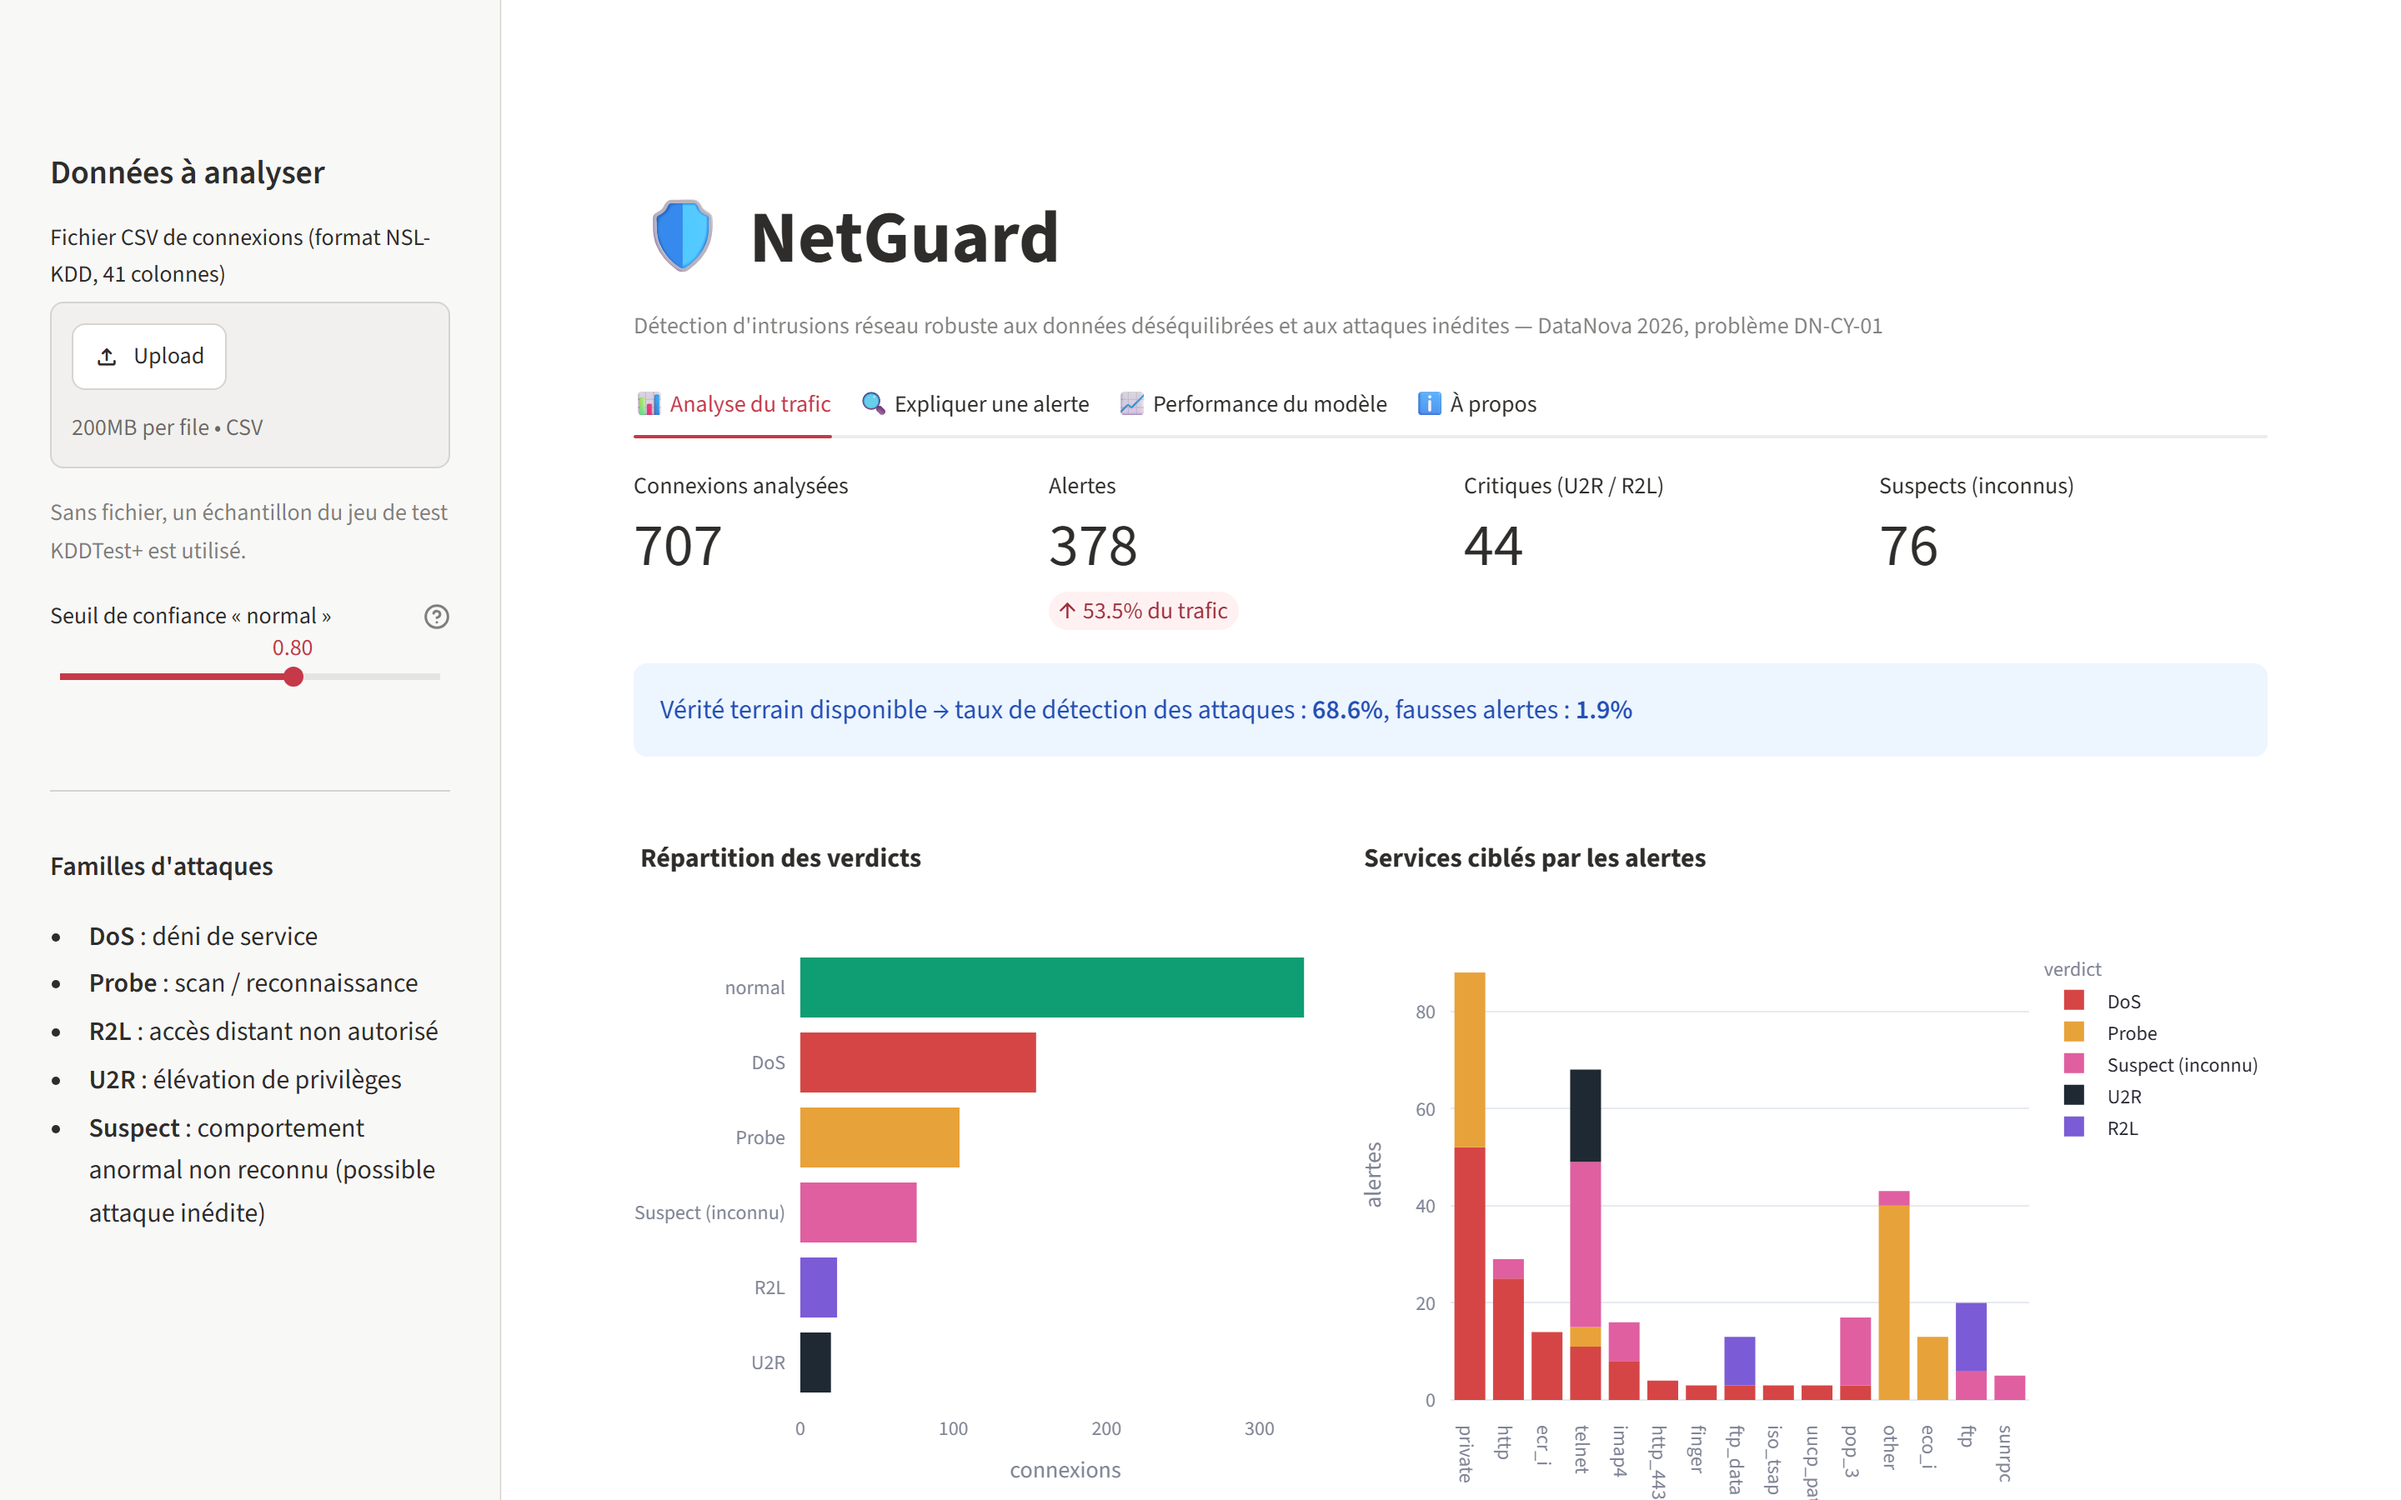
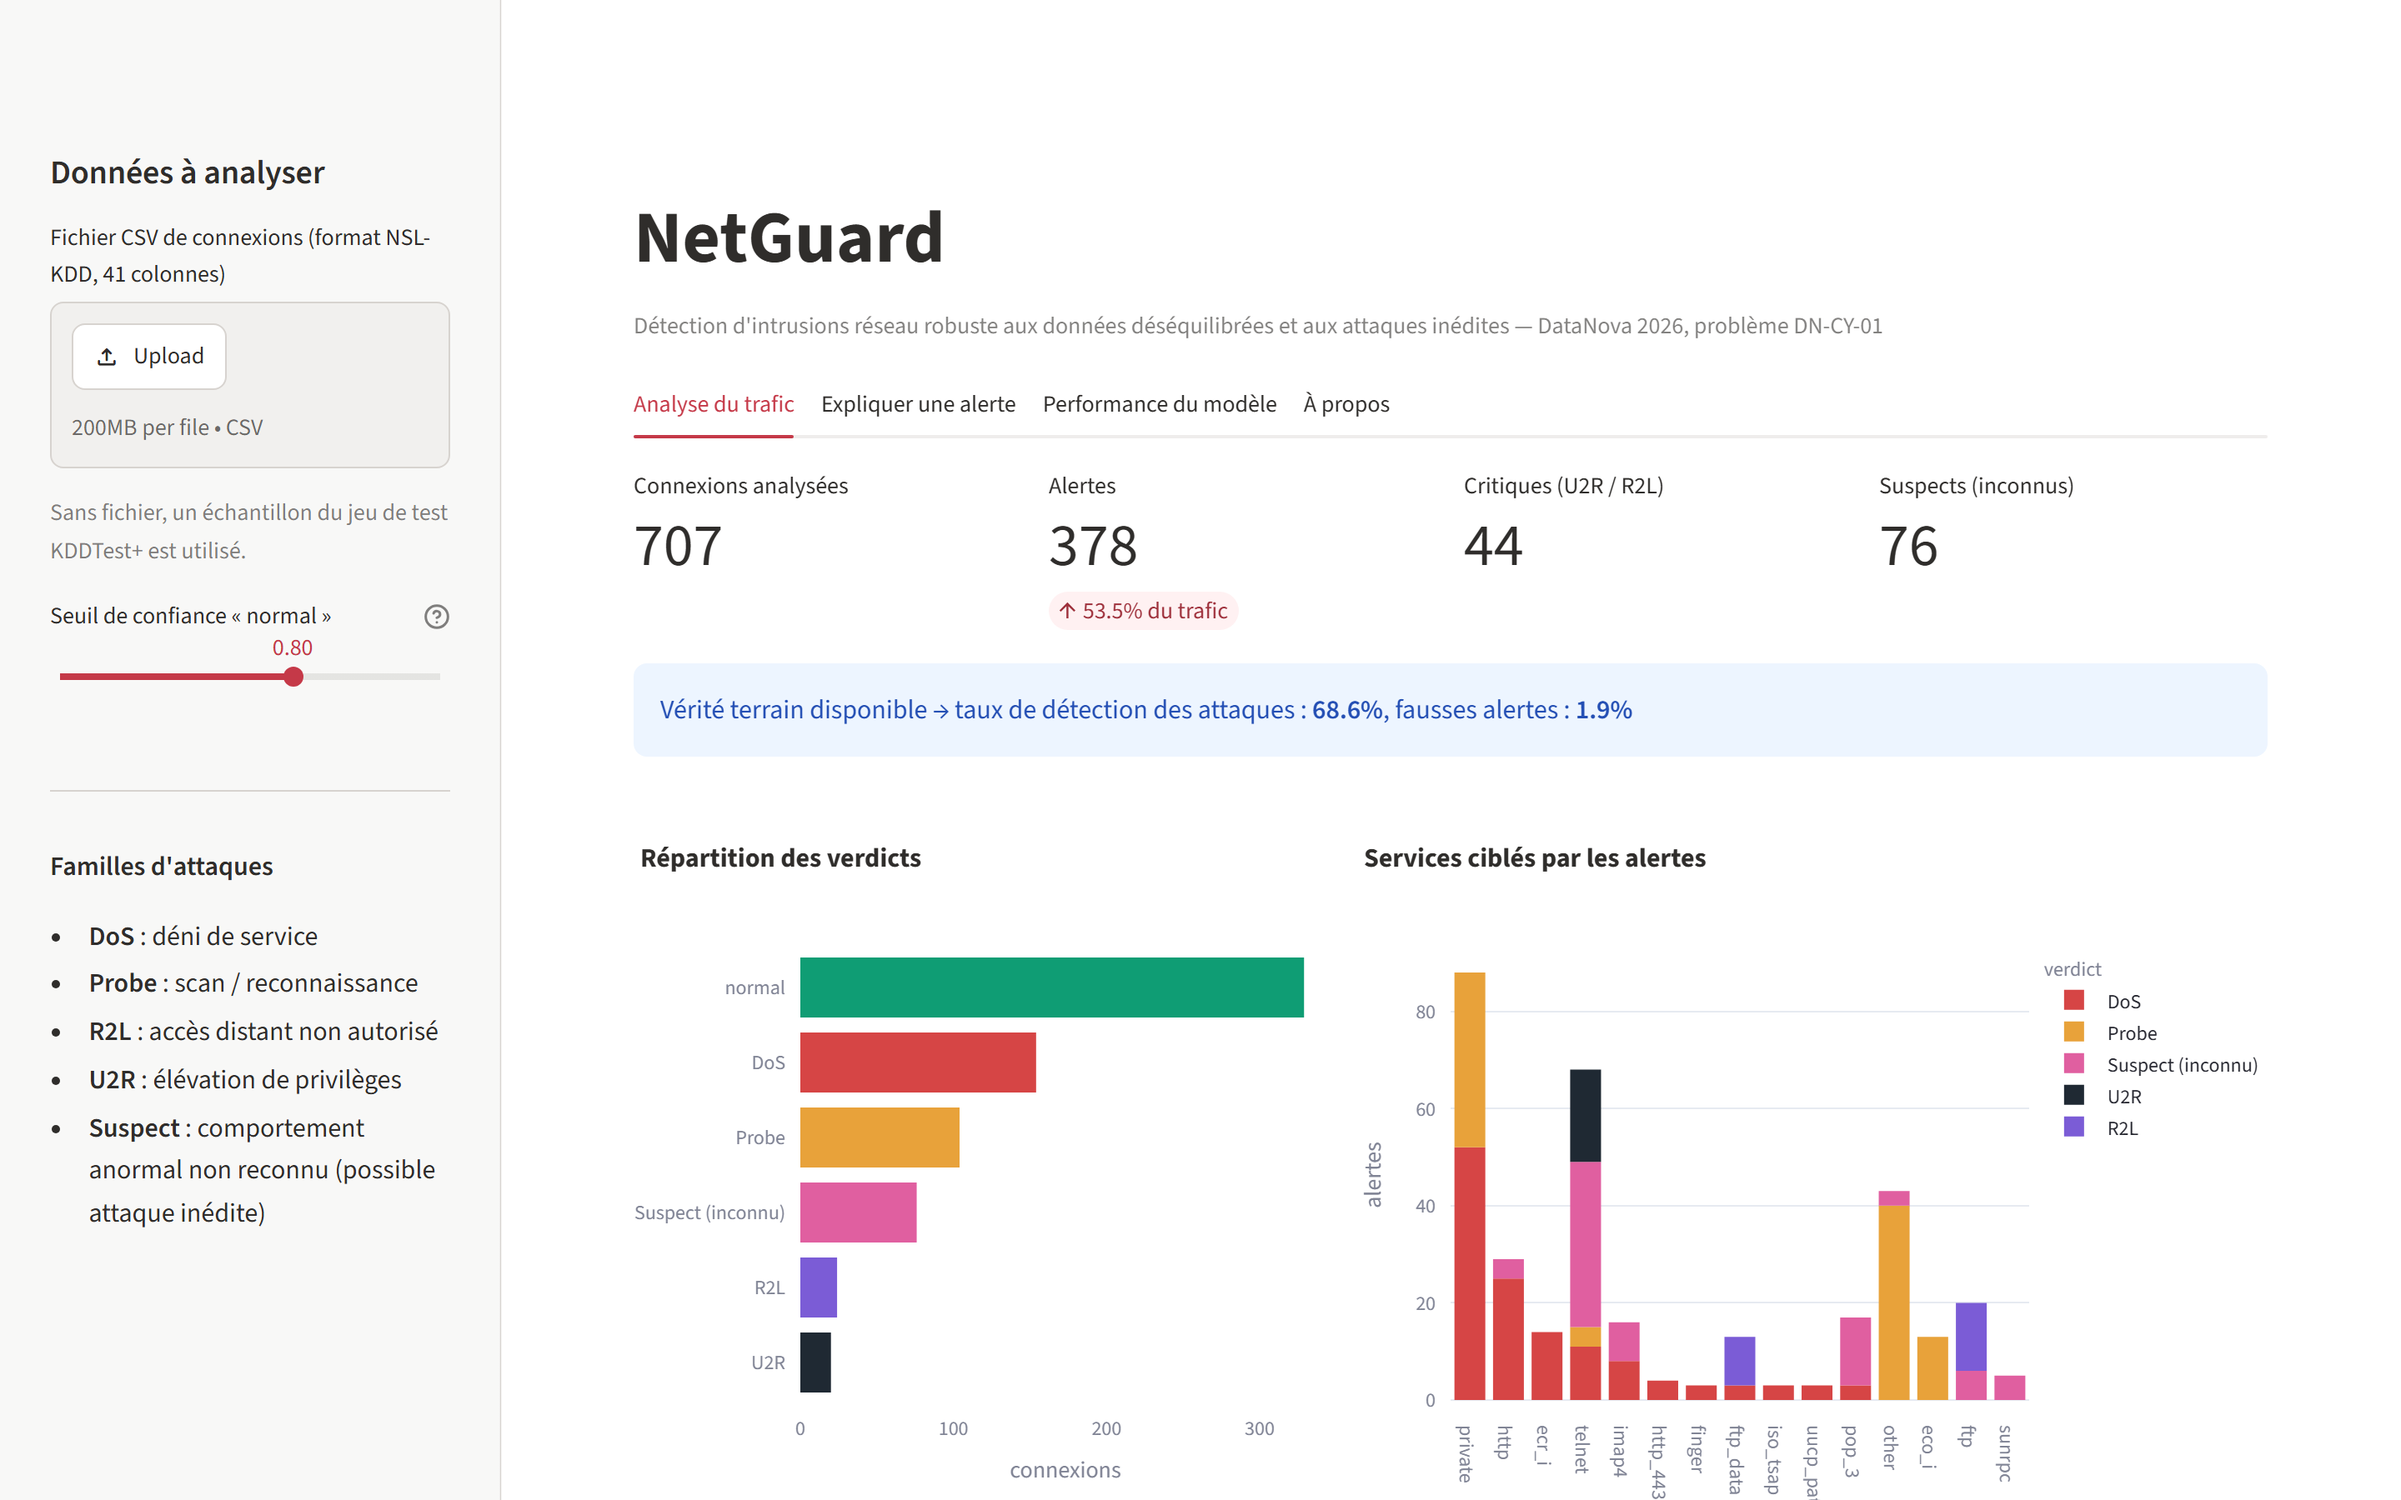
Retire les emojis de l'application, liens dans la présentation

Changed region(s): [[0.25, 0.2489, 0.625, 0.28], [0.25, 0.1244, 0.4375, 0.1867]]

diff --git a/app.py b/app.py
@@ -16,7 +16,7 @@ ART = os.path.join(HERE, "artifacts")
 COLORS = {"normal": "#0f9d74", "DoS": "#d64545", "Probe": "#e8a23a",
           "R2L": "#7b5cd6", "U2R": "#1f2933", "Suspect (inconnu)": "#e05fa0"}
 
-st.set_page_config(page_title="NetGuard – Détection d'intrusions", page_icon="🛡", layout="wide")
+st.set_page_config(page_title="NetGuard – Détection d'intrusions", layout="wide")
 
 
 @st.cache_resource
@@ -51,7 +51,7 @@ def predict(df: pd.DataFrame, m, conf_thr: float):
     return out, X, proba
 
 
-st.title("🛡 NetGuard")
+st.title("NetGuard")
 st.caption("Détection d'intrusions réseau robuste aux données déséquilibrées et aux attaques inédites "
            "— DataNova 2026, problème DN-CY-01")
 
@@ -90,8 +90,8 @@ else:
 
 res, X, proba = predict(df, m, conf_thr)
 
-tab1, tab2, tab3, tab4 = st.tabs(["📊 Analyse du trafic", "🔍 Expliquer une alerte",
-                                  "📈 Performance du modèle", "ℹ À propos"])
+tab1, tab2, tab3, tab4 = st.tabs(["Analyse du trafic", "Expliquer une alerte",
+                                  "Performance du modèle", "À propos"])
 
 with tab1:
     n = len(res)
@@ -130,7 +130,7 @@ with tab1:
             "src_bytes", "dst_bytes", "count", "serror_rate"] + (["attack"] if "attack" in res else [])
     st.dataframe(view[cols].rename(columns={"attack": "vérité terrain"}),
                  width="stretch", height=320)
-    st.download_button("⬇ Télécharger le rapport (CSV)", res.to_csv(index=False).encode("utf-8"),
+    st.download_button("Télécharger le rapport (CSV)", res.to_csv(index=False).encode("utf-8"),
                        "netguard_rapport.csv", "text/csv")
 
 with tab2:
